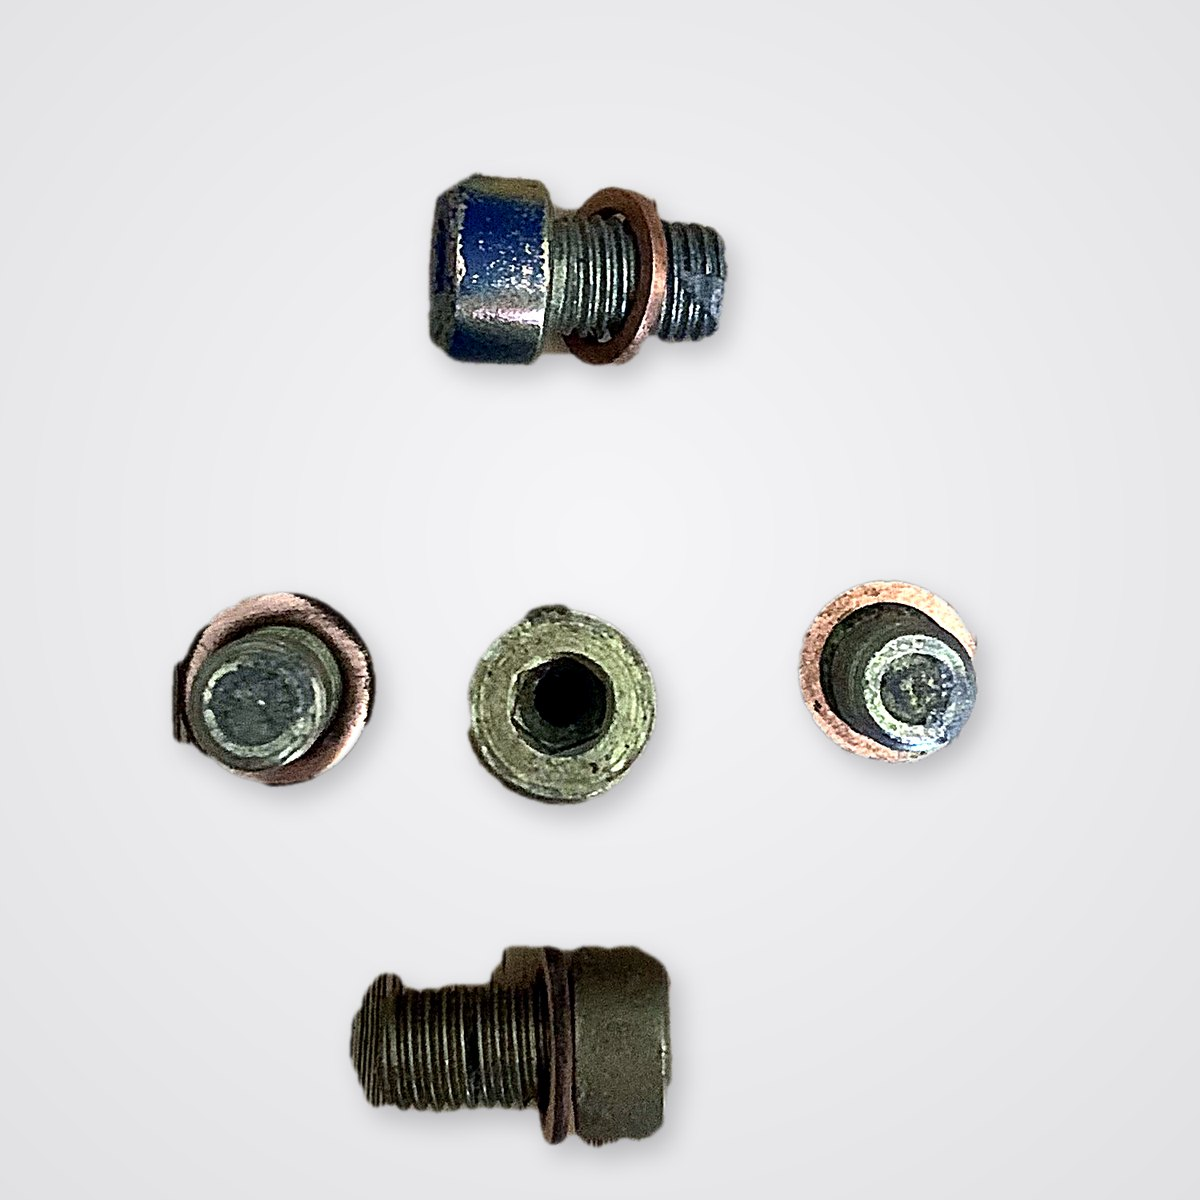
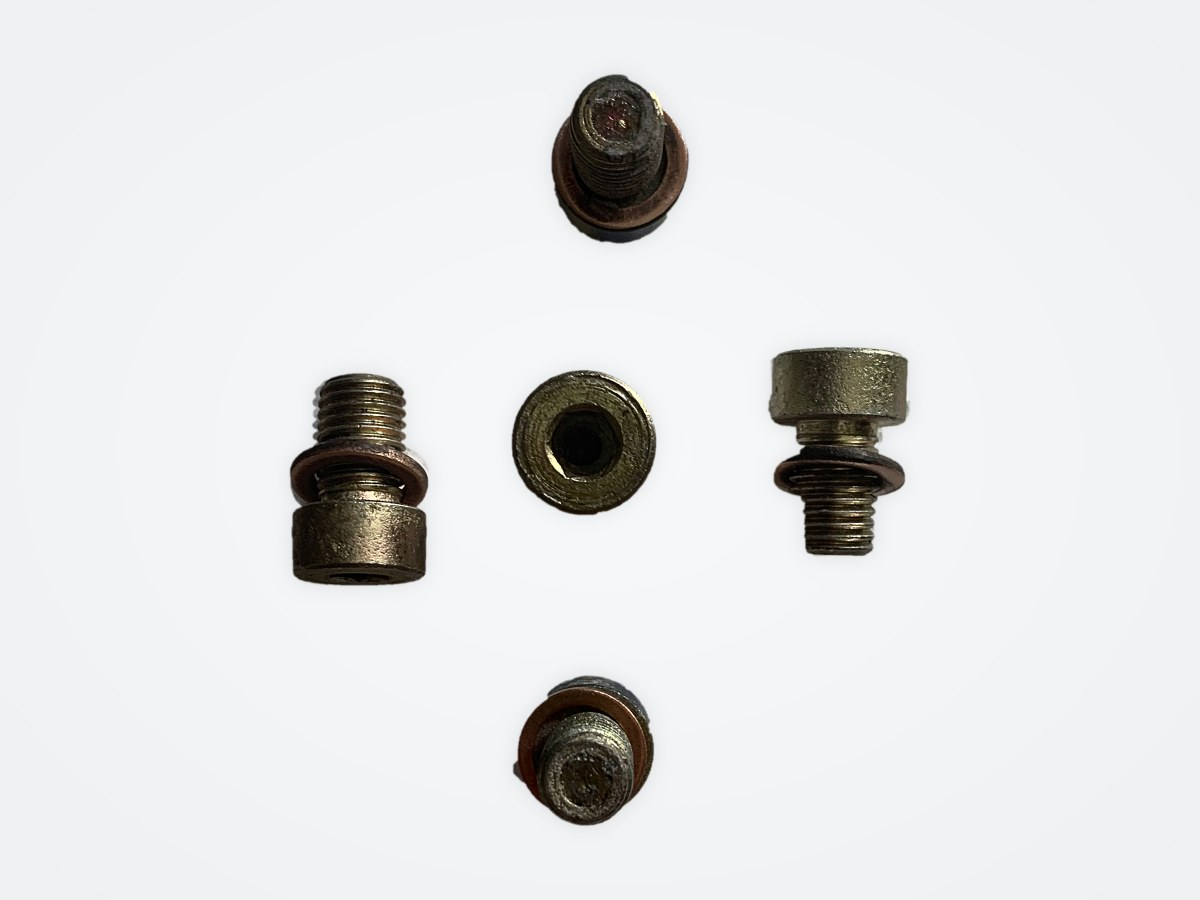
Fusible plug photos: new sharper shots, shadows removed, clean background
Group shot replaces the earlier fusible-plugs.jpg; new side view close-up
used on the Fluid Couplings card.

Claude-Session: https://claude.ai/code/session_013QWaAYydk99kK3YSTHhkZe

diff --git a/fluid-couplings.html b/fluid-couplings.html
@@ -271,7 +271,7 @@
     </header>
     <div class="cs-cards">
       <a class="cs-card" href="fluid-coupling-fusible-plugs.html">
-        <img src="images/fluid-couplings/fusible-plugs.jpg" alt="Fluid coupling fusible plugs with copper sealing washers" loading="lazy">
+        <img src="images/fluid-couplings/fusible-plug-side.jpg" alt="Fluid coupling fusible plug with copper sealing washer" loading="lazy">
         <div class="cs-card-body">
           <h3>Fusible Plugs</h3>
           <p>One plug design for the Fluidrive, Vulcan Sinclair and Pembril range, for surface and underground applications.</p>
